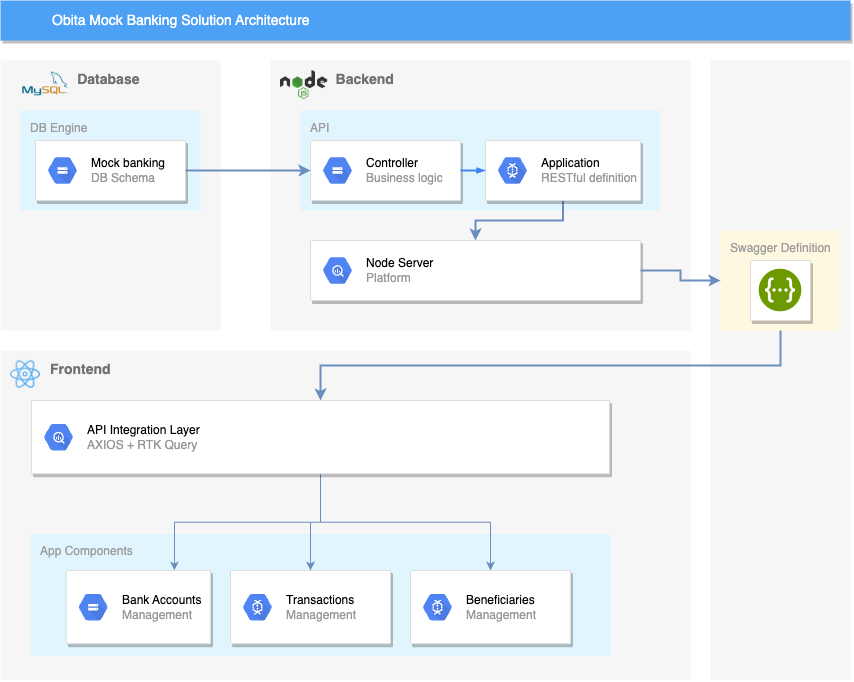
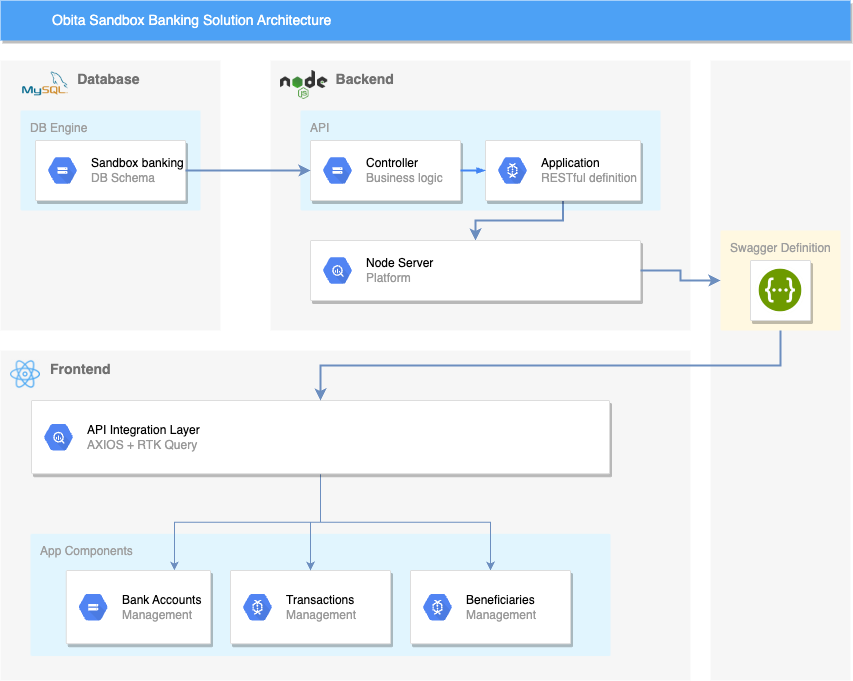
fix: pr review remarks

diff --git a/obitamockbank100.catalog.obita.tech/resources/developerGuide.md b/obitamockbank100.catalog.obita.tech/resources/developerGuide.md
@@ -1,4 +1,4 @@
-# Developer Guide: Obita Mock Banking
+# Developer Guide: Obita Sandbox Banking
 
 ## Introduction
 
@@ -6,9 +6,9 @@ This developer guide is designed to help developers understand and work with the
 
 ## Solution Architecture
 
-![solution architectur](solutionArchitecture.png)
+![solution architectur](./solutionArchitecture.png)
 
-The Mock Banking solution is built using the microservices architecture. The system comprises several independent services that communicate with each other using RESTful APIs.
+The Sandbox Banking solution is built using the microservices architecture. The system comprises several independent services that communicate with each other using RESTful APIs.
 
 ## Getting Started
 
@@ -112,11 +112,11 @@ This is the component to handle all the beneficiaries related tasks. Users can a
 
 ### API Documentation
 
-The API documentation provides a comprehensive reference for the Mock Banking APIs. The documentation includes the following: - API Reference - Authentication and Authorization - Data Formats - Error Handling
+The API documentation provides a comprehensive reference for the Sandbox Banking APIs. The documentation includes the following: - API Reference - Authentication and Authorization - Data Formats - Error Handling
 
 ### Swagger UI [Link]
 
-The Mock Banking solution provides a Swagger UI to explore and interact with the APIs. The Swagger UI allows you to:
+The Sandbox Banking solution provides a Swagger UI to explore and interact with the APIs. The Swagger UI allows you to:
 
     - View API endpoints and parameters
     - Try out API requests and see responses
@@ -124,14 +124,14 @@ The Mock Banking solution provides a Swagger UI to explore and interact with the
 
 ### Error Handling
 
-The Mock Banking solution provides comprehensive error handling to help developers diagnose and resolve issues. The error handling includes the following:
+The Sandbox Banking solution provides comprehensive error handling to help developers diagnose and resolve issues. The error handling includes the following:
 
 Error Codes | Error Messages |
 Troubleshooting Guide
 
 ### Security
 
-Security is a critical aspect of Mock Banking solutions. Our solution provides the following security features:
+Security is a critical aspect of Sandbox Banking solutions. Our solution provides the following security features:
 
 Strong Customer Authentication (SCA) |
 Client Authentication |
@@ -140,7 +140,7 @@ TLS Encryption
 
 ### Performance
 
-The Mock Banking solution is designed to perform under high loads. We use the following techniques to optimize performance:
+The Sandbox Banking solution is designed to perform under high loads. We use the following techniques to optimize performance:
 
 Caching |
 Asynchronous Processing |
@@ -148,10 +148,10 @@ Distributed Architecture
 
 ### Integration
 
-The Mock Banking solution is designed to integrate with third-party systems. We provide the following integration features:
+The Sandbox Banking solution is designed to integrate with third-party systems. We provide the following integration features:
 
 API Management
 
 ### Support
 
-If you encounter issues or have questions while working with the Mock Banking solution, please contact our support team at `support@obita.tech`.
+If you encounter issues or have questions while working with the Sandbox Banking solution, please contact our support team at `support@obita.tech`.

diff --git a/obitamockbank100.catalog.obita.tech/resources/README.md b/obitamockbank100.catalog.obita.tech/resources/README.md
@@ -1,6 +1,6 @@
 # Introduction
 
-The Mock Banking solution is providing an online banking system environment for the customer to try out all the self-banking-related tasks. This is a sandbox environment to provide a well-managed banking system to get understand all the solutions that we provide by our Open Banking solution.
+The Sandbox Banking solution is providing an online banking system environment for the customer to try out all the self-banking-related tasks. This is a sandbox environment to provide a well-managed banking system to get understand all the solutions that we provide by our Open Banking solution.
 
 # Ecosystem & participants
 
@@ -12,8 +12,8 @@ Transactions management allows users to make transactions and view transaction h
 
 Beneficiary management allows users to add and delete their account beneficiaries. Users then can mention added beneficiaries while doing a transaction.
 
-All the users who are willing to try out our Open Banking solutions can participate in the Mock Banking system.
+All the users who are willing to try out our Open Banking solutions can participate in the Sandbox Banking system.
 
 # User Journey
 
-![user journey](userJourney.png)
+![user journey](./userJourney.png)
